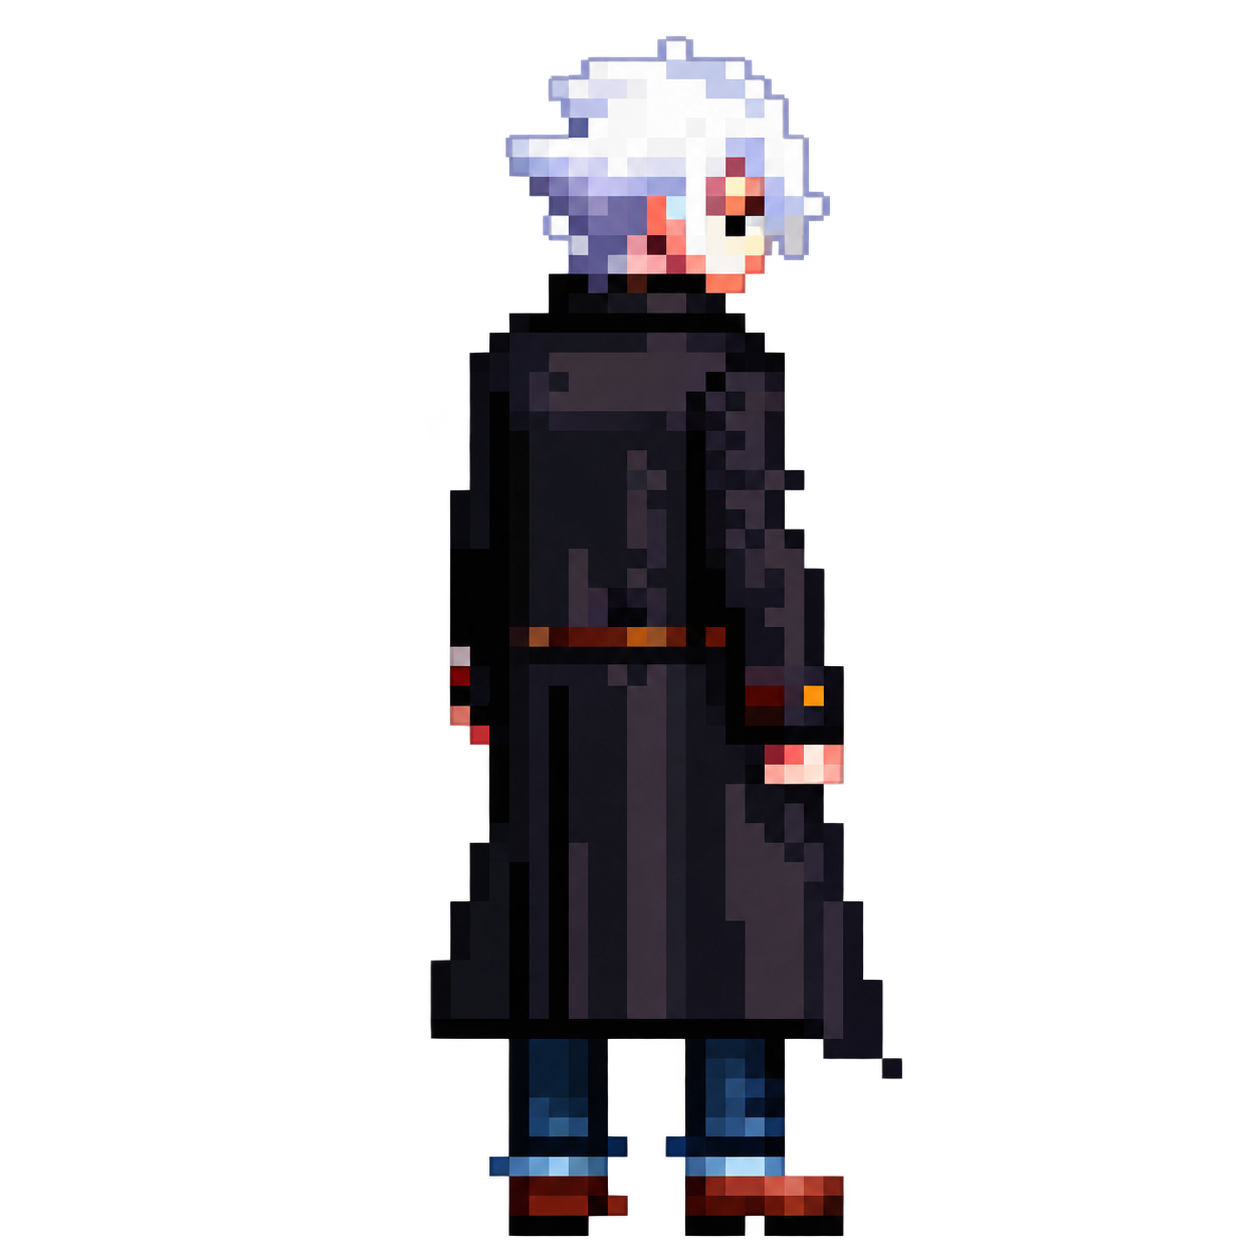
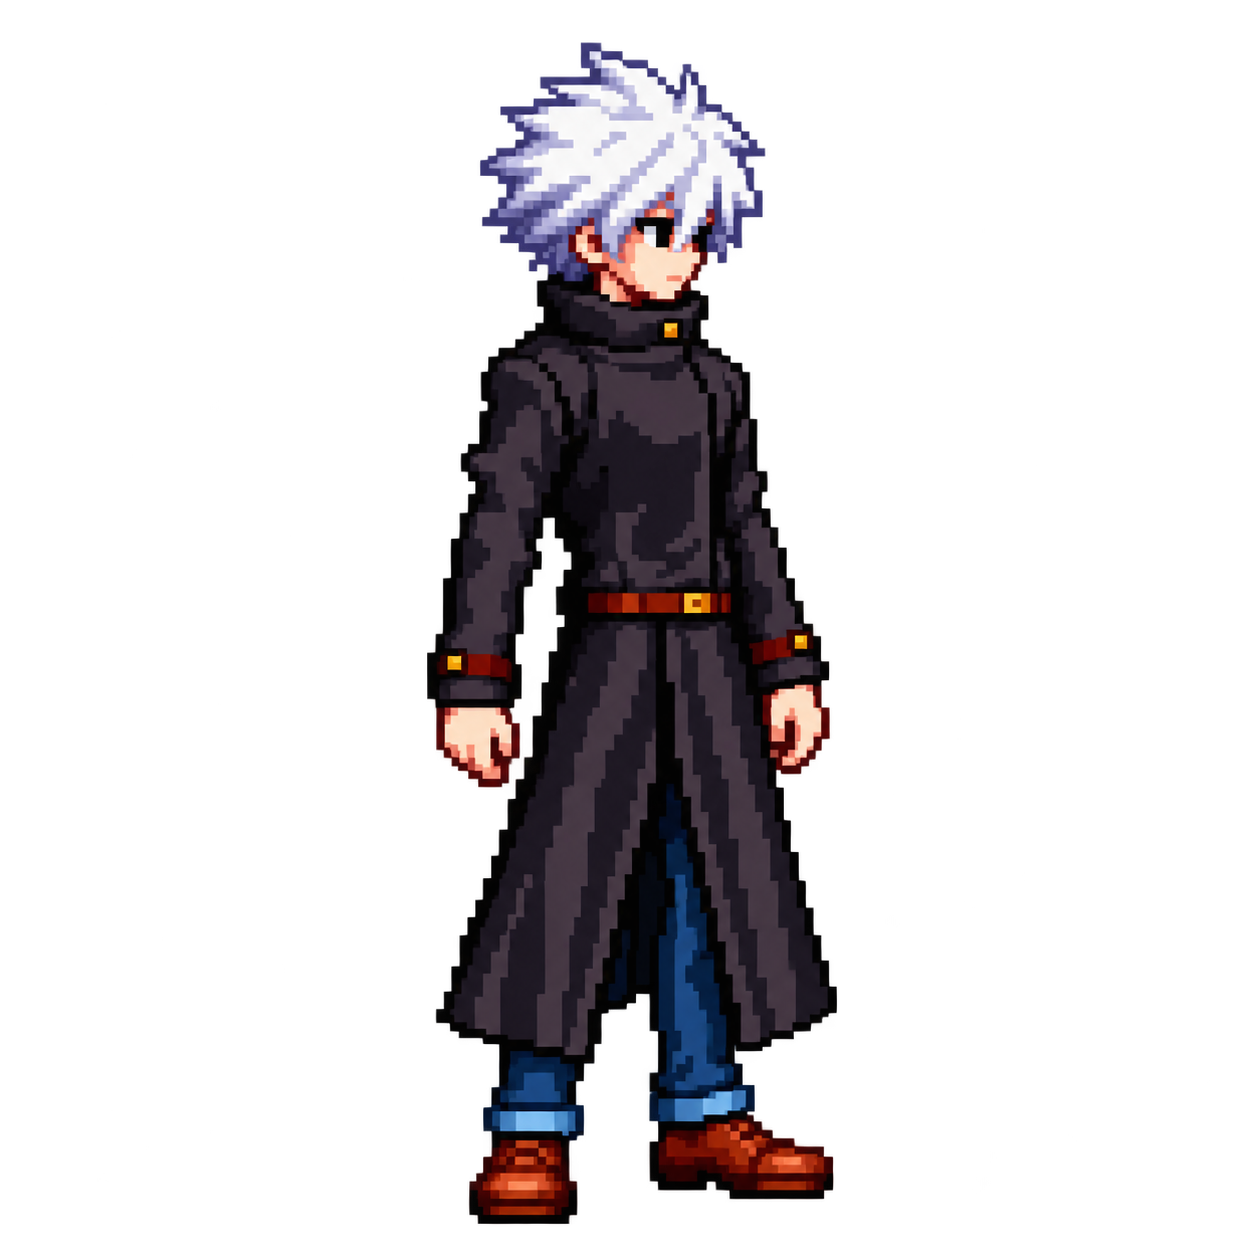
* 에셋 동기화 배치 추가

Changed region(s): [[0.3421, 0.0311, 0.7153, 0.9952]]

diff --git a/ActionRPGClient/README.md b/ActionRPGClient/README.md
@@ -83,6 +83,21 @@ msbuild .\ActionRPGClient\ActionRPGClient.vcxproj /p:Configuration=Debug /p:Plat
 
 Debug 실행 파일은 `artifacts/bin/x64/Debug/ActionRPGClient.exe`에 생성됩니다.
 
+### 빌드 없이 에셋 반영
+
+클라이언트를 한 번 이상 빌드한 상태라면 `SyncClientAssets.bat`으로 C++ 빌드 없이
+프로젝트의 `Assets`를 실행 파일 옆에 즉시 동기화할 수 있습니다.
+
+```bat
+SyncClientAssets.bat
+SyncClientAssets.bat Release
+```
+
+인자를 생략하면 `Debug | x64`에 반영합니다. `Release`를 지정하면
+`Release | x64` 실행 폴더에 반영합니다. 원본에서 삭제한 에셋은 실행 폴더에서도
+삭제되므로 프로젝트의 `Assets`를 원본으로 관리해야 합니다. 실행 중인 클라이언트는
+이미지와 데이터를 캐시할 수 있으므로 동기화 후 재시작합니다.
+
 클라이언트는 기본적으로 `127.0.0.1:7777`의 TownServer에 연결합니다. 서버를 먼저
 실행한 뒤 클라이언트를 여러 번 실행하면 원격 플레이어의 Appear, 이동,
 Disappear를 확인할 수 있습니다.
